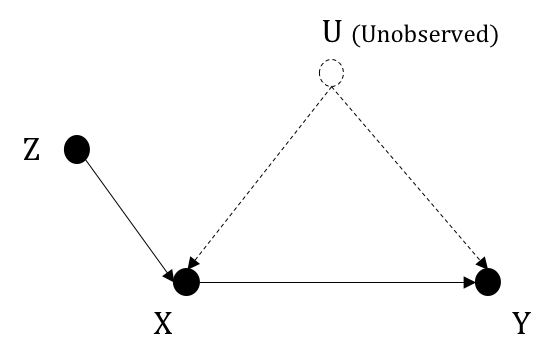
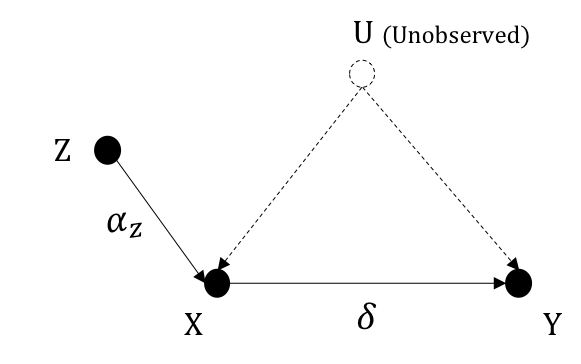
Initial Commit

diff --git a/causal-data-science/chapter2.html b/causal-data-science/chapter2.html
@@ -62,7 +62,7 @@
           <h6>Parametric methods</h6>
           <ul>
             <a href="#2.4"><li>2.4. Structural Causal Models</li></a>
-            <a href="#2.5"><li>2.5. Average Treatment Effect</li></a>
+            <a href="#2.5"><li>2.5. Average Causal Effect</li></a>
             <a href="#2.6"><li>2.6. Instrumental Variables</li></a>
           </ul>
         </div>
@@ -303,10 +303,34 @@
           In addition, setting \(X\) to a constant \(x\) is called <i>hard</i> intervention. Under SCM, you can see that we can be more flexible by assigning \(X\) to a new distribution i.e., new causal mechanism to \(X\).
           Such action is referred to as <i>soft</i> intervention. 
         </p>
-        <h3 id="2.5">2.5. Instrumental Variables</h3>
+        <h3 id="2.5">2.5. Average Causal Effect</h3>
         <p>
-          The method of Instrumental variables allows for identification in settings where \(Do-\)calculus fails, due to unobserved confounding or absence of mediator. 
-          It demands the presence of an instrumental variable.
+            <strong>A quick review of expected value:</strong>
+            <br>The expected value of a random variable \(X\), denoted as \(E[X]\), is the generalization of weighted average given as 
+            $$E[X] = \int xP(x) dx$$ 
+            If \(X\) is a discreet variable with finite outcomes \(x_1, x_2, ..., x_n\) occuring with probabilities \(P_1, P_2, ..., P_n\), 
+            $$E[X] = \sum_{i=1}^{n} x_i P_i$$
+            Linearity of Expectation: 
+            $$E[X+Y] = E[X]+E[Y]$$
+            If \(X\) and \(Y\) are <strong>independent,</strong>
+            $$E[XY] = E[X]E[Y]$$
+        </p>
+        <p>
+          Until this point, we have only discussed \(P(Y|do(X))\) as the interventional distribution of \(Y\) - 
+          that is, possible values \(Y\) can attain, along with the probabilities of occurence when \(X\) is forced to take a certain value. 
+        </p>
+        <p>
+          Now there comes an official definition of causal effects. When \(X\) changes from \(x_1\) to \(x_2\), 
+          for an individual \(i\) in the population, the <strong>individual causal effect</strong> on \(Y\) is defined as
+          $$Y_i|do(X=x_2) - Y_i|do(X=x_1)$$
+          As we wish to estimate causal effect on the population level, we choose to measure the <strong>average causal effect</strong>, given as 
+          $$E[Y|do(X=x_2)] - E[Y|do(X=x_1)] $$
+          If the above quantity is zero, we say such a change in \(X\) has no causal effect on \(Y\).
+        </p>
+
+        <h3 id="2.6">2.6. Instrumental Variables</h3>
+        <p>
+          The method of Instrumental variables allows for identification where there is unobserved confounding or absence of mediator. 
         </p>
         <div class="theorem">
           <h5>Definition of Instrumental variable</h5>
@@ -328,32 +352,42 @@
         </figure>
         <p>
           We assume the SCM takes a linear form defined as 
+          $$X:= \alpha_z Z$$
           $$Y := \delta X + \alpha_uU$$
           where \(\delta\), <strong>structural coefficients</strong>, measures how much \(Y\) varies caused by \(1\) unit change in \(X\). 
           Based on the specified model, \(\delta\) measures the causal effect between \(X\) and \(Y\) – the causal quantity to be estimated.
+          The following section shows how to derive \(\delta\) from statistical quantities.
+        </p>
+        <strong>When \(X,Z\) is binary:</strong>
+        <p>
+          $$E[Y|Z=1] - E[Y|Z=0] = E[\delta X + \alpha_u U|Z=1] - E[\delta X + \alpha_u U|Z=0]$$
+          &#8811 <i>Rearranging using properties of expectation:</i>
+          $$E[Y|Z=1] - E[Y|Z=0]  = \delta (E[X|Z=1] - E[X|Z=0]) + \alpha_U (E[U|Z=1] - E[U|Z=0])$$
         </p>
         <p>
-          <strong>A quick review of expected value:</strong>
-          <br>The expected value of a random variable \(X\), denoted as \(E[X]\), is the generalization of weighted average given as 
-          $$E[X] = \int xP(x) dx$$ 
-          If \(X\) is a discreet variable with finite outcomes \(x_1, x_2, ..., x_n\) occuring with probabilities \(P_1, P_2, ..., P_n\), 
-          $$E[X] = \sum_{i=1}^{n} x_i P_i$$
-          Linearity of Expectation: 
-          $$E[X+Y] = E[X]+E[Y]$$
-          If \(X\) and \(Y\) are <strong>independent,</strong>
-          $$E[XY] = E[X]E[Y]$$
+          Because there is no back-door path between \(Z\) and \(U\) and the graph says \(Z \perp U\) due to the collider \(X\),
+          the second term in the right-hand side is zero. We therefore have
+          $$\delta = \frac{E[Y|Z=1] - E[Y|Z=0]}{E[X|Z=1] - E[X|Z=0]} $$
         </p>
         <p>
-          We can derive \(\delta\) following the steps below. This derivation is applied for general scenrios where \(T,Z\) are continuous.
-          We begin with the (observational) covariance between \(Y\) and \(Z\) – \(\text{Cov}(Y,Z)\). Its formula is given in the first line.
+          Here \(Z\) is assumed to have causal effect on \(X\), so regardless of any back-door paths or any potential mediators between them, 
+          \(\alpha_z\) measures the causal effect between \(Z\) and \(X\), and 
+          $$\alpha_z = E[X|Z=1] - E[X|Z=0]$$
+          So, in linear settings, the total effect of \(Z\) on \(Y\) is 
+          $$E[Y|Z=1] - E[Y|Z=0] = \alpha_U \delta$$
+        </p>
+        <strong>When \(X,Z\) is continuous:</strong>
+        <p>
+          Similarly, we begin with the observational covariance between \(Y\) and \(Z\) – \(\text{Cov}(Y,Z)\). Its formula is given in the first line.
           $$\text{Cov}(Y,Z) = E[YZ] - E[Y]E[Z]$$
           &#8811 <i>Injecting structural equation for \(Y\):</i>
           $$\text{Cov}(Y,Z) = E[(\delta X + \alpha_uU)Z] - E[Y]E[Z]$$
           &#8811 <i>Rearranging using properties of expectation:</i>
           $$\text{Cov}(Y,Z) = \delta (E[XZ]-E[X]E[Z]) + \alpha_u (E[UZ]-E[U]E[Z]) = \delta \text{Cov}(X,Z) + \alpha_u \text{Cov}(U,Z) $$
         </p>
+
         <p>
-          \(\text{Cov}(U,Z) = 0\) because there is no back-door path between \(Z\) and \(U\) and the graph says \(Z \perp U\) due to the collider \(X\), 
+          \(\text{Cov}(U,Z) = 0\) because \(Z \perp U\). 
           We thus settle with the causal effect identified as 
           $$\delta = \frac{\text{Cov}(Y,Z)}{\text{Cov}(X,Z)}$$
         </p>
